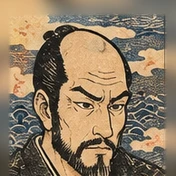
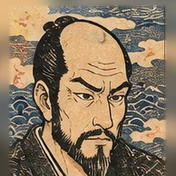
浮世絵版: 金さん・信長・家康・静御前・金太郎の位置と大きさを調整
Claude-Session: https://claude.ai/code/session_015fwoRN5EZXb2K7SzR6LxUP

diff --git a/mahjong/tools/cut_ukiyoe.py b/mahjong/tools/cut_ukiyoe.py
@@ -18,8 +18,8 @@ EYE = [88, 93, 90, 95, 98, 95, 90, 93,   100, 105, 100, 100, 100, 108, 100, 90, 
 import numpy as np
 SCALE = 0.88  # 顔の大きさ(1=パネルの横幅いっぱい)。小さくすると、まわりを足して、顔が小さく見える
 # 1人ずつの調整(番号は 1〜32)。 SIZE: 顔の大きさを、全体(SCALE)の何倍にするか / UP: 顔を上にあげる量(窓の高さに対する割合。0.05 = 5%)
-SIZE = {1: 0.90, 4: 0.95, 6: 0.95, 9: 0.95}
-UP = {1: 0.05, 2: 0.05, 3: 0.05, 4: 0.05, 5: 0.05, 6: 0.05, 20: 0.05, 26: 0.05}
+SIZE = {1: 0.90, 4: 0.95, 6: 0.95, 9: 0.95, 14: 1.05, 26: 1.05}
+UP = {1: 0.05, 2: 0.10, 3: 0.05, 4: 0.05, 5: 0.10, 6: 0.05, 7: 0.05, 20: 0.05, 26: 0.10}
 P = 60        # まわりを足す幅(鏡のように折り返す)
 im = Image.open(os.path.join(U, 'sheet_cpu.png')).convert('RGB')
 n = 0
